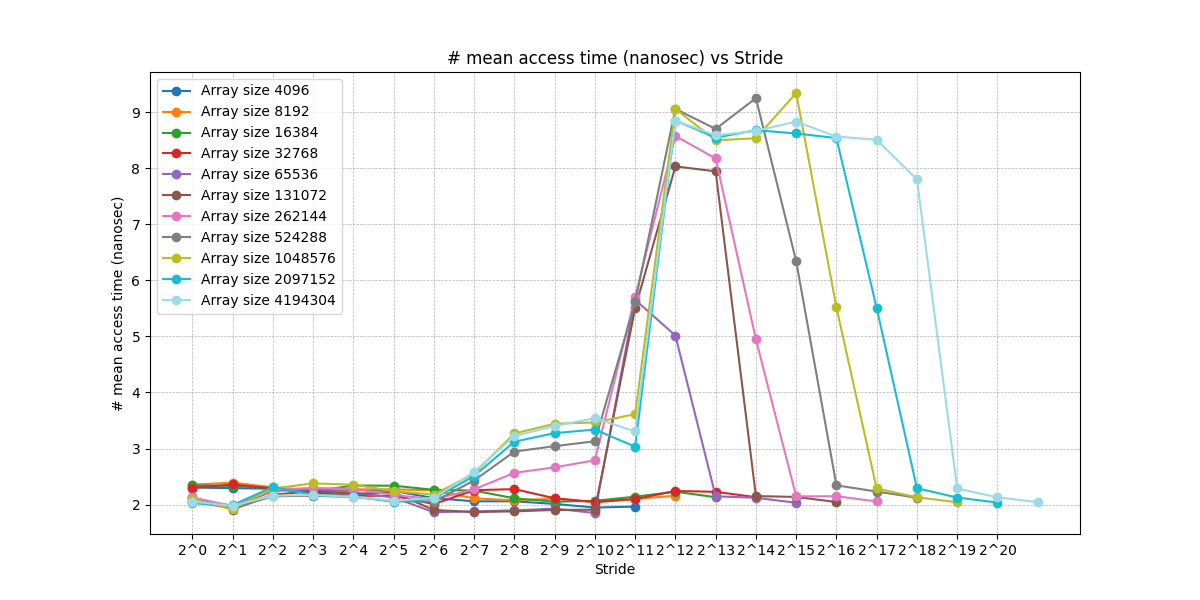
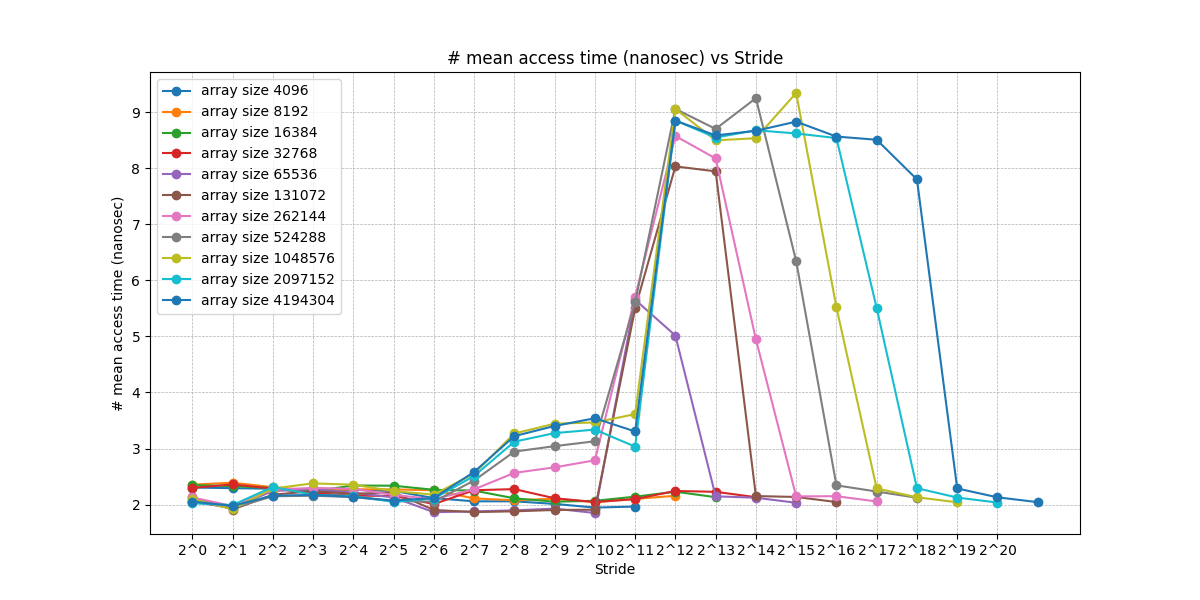
stuff from dudu

diff --git a/proj1/medicoes/ex2/to_plot.py b/proj1/medicoes/ex2/to_plot.py
@@ -2,7 +2,6 @@ import os
 import pandas as pd
 import matplotlib.pyplot as plt
 import numpy as np
-import matplotlib.cm as cm
 
 script_dir = os.path.dirname(os.path.abspath(__file__))
 excel_path = os.path.join(script_dir, "dados.xlsx")
@@ -13,29 +12,28 @@ df["array size"] = pd.to_numeric(df["array size"])
 df["stride"] = pd.to_numeric(df["stride"])
 df["# mean access time (nanosec)"] = pd.to_numeric(df["# mean access time (nanosec)"])
 
-plt.figure(figsize=(12, 6))
-
-unique_sizes = df["array size"].unique()
-colors = cm.get_cmap('tab20', len(unique_sizes))
-
-for i,arraySize in enumerate(unique_sizes):
-    subset = df[df["array size"] == arraySize]
-    plt.plot(subset["stride"], subset["# mean access time (nanosec)"],marker='o', color=colors(i), label=f"Array size {arraySize}")
-
-plt.title("# mean access time (nanosec) vs Stride")
-plt.xlabel("Stride")
-plt.ylabel("# mean access time (nanosec)")
-
-# Customize X-axis: 2^0 → 2^20 with steps 2^x
-x_ticks = [2**i for i in range(21)]
-plt.xscale("log", base=2)
-plt.xticks(x_ticks, [f"2^{i}" for i in range(21)])
-
-plt.grid(True, which="both", linestyle="--", linewidth=0.5)
-plt.legend()
-
-plot_path = os.path.join(script_dir, "plot.png")
-plt.savefig(plot_path)
-plt.show()
-
-print(f"Plot saved as: {plot_path}")
+# Create a separate plot for each stride value
+for stride in df["stride"].unique():
+    subset = df[df["stride"] == stride]
+    
+    plt.figure(figsize=(12, 6))
+    plt.plot(subset["array size"], subset["# mean access time (nanosec)"], marker='o')
+    
+    plt.title(f"# mean access time (nanosec) vs Array Size (stride = {stride})")
+    plt.xlabel("Array Size")
+    plt.ylabel("# mean access time (nanosec)")
+    
+    # Use logarithmic scale for X-axis if array sizes grow exponentially
+    plt.xscale("log", base=2)
+    plt.xticks([2**i for i in range(int(np.log2(subset["array size"].min())), 
+                                    int(np.log2(subset["array size"].max())) + 1)],
+               [f"2^{i}" for i in range(int(np.log2(subset["array size"].min())), 
+                                         int(np.log2(subset["array size"].max())) + 1)])
+    
+    plt.grid(True, which="both", linestyle="--", linewidth=0.5)
+    
+    plot_path = os.path.join(script_dir, f"plot_stride_{stride}.png")
+    plt.savefig(plot_path)
+    #plt.show()
+    
+    print(f"Plot for stride {stride} saved as: {plot_path}")

diff --git a/proj1/medicoes/ex2/to_plot_all_data.py b/proj1/medicoes/ex2/to_plot_all_data.py
@@ -1,0 +1,38 @@
+import os
+import pandas as pd
+import matplotlib.pyplot as plt
+import numpy as np
+
+script_dir = os.path.dirname(os.path.abspath(__file__))
+excel_path = os.path.join(script_dir, "dados.xlsx")
+
+df = pd.read_excel(excel_path)
+
+df["array size"] = pd.to_numeric(df["array size"])
+df["stride"] = pd.to_numeric(df["stride"])
+df["# mean access time (nanosec)"] = pd.to_numeric(df["# mean access time (nanosec)"])
+
+plt.figure(figsize=(12, 6))
+
+for array in df["array size"].unique():
+    subset = df[df["array size"] == array]
+    plt.plot(subset["stride"], subset["# mean access time (nanosec)"], marker='o', label=f"array size {array}")
+
+plt.title("# mean access time (nanosec) vs Stride")
+plt.xlabel("Stride")
+plt.ylabel("# mean access time (nanosec)")
+
+
+# Customize X-axis: 2^0 → 2^20 with steps 2^x
+x_ticks = [2**i for i in range(21)]
+plt.xscale("log", base=2)
+plt.xticks(x_ticks, [f"2^{i}" for i in range(21)])
+
+plt.grid(True, which="both", linestyle="--", linewidth=0.5)
+plt.legend()
+
+plot_path = os.path.join(script_dir, "plot.png")
+plt.savefig(plot_path)
+plt.show()
+
+print(f"Plot saved as: {plot_path}")
